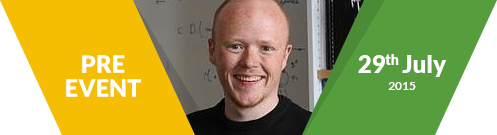
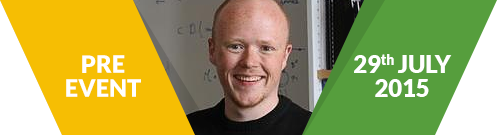
small changes to styling

Changed region(s): [[0.6942, 0.3852, 0.9054, 0.7407]]

diff --git a/css/style.css b/css/style.css
@@ -913,7 +913,7 @@ p.description {
   background: #6B6B6B;
   color: white;
   padding:0 25px;
-  margin: 10px 0 40px 0;
+  margin: 10px 0 76px 0;
 }
 /* TICKET SECTION
 -------------------------------------------------- */
@@ -1410,13 +1410,23 @@ near the relevant code. For example, if you wanted to change the styles for butt
 on small devices, paste the mobile query code up in the buttons section and style it
 there.
 */
+.pre-event-banner {
+  padding-bottom: 20px;
+}
 @media (max-width: 600px) {
   .pre-event-banner {
-    -webkit-transform: scale(0.8); /* Saf3.1+, Chrome */
-       -moz-transform: scale(0.8); /* FF3.5+ */
-        -ms-transform: scale(0.8); /* IE9 */
-         -o-transform: scale(0.8); /* Opera 10.5+ */
-            transform: scale(0.8);
+    width: 397px;
+  }
+}
+@media (max-width: 450px) {
+  .pre-event-banner {
+    width: 357px;
+  }
+}
+
+@media (max-width: 370px) {
+  .pre-event-banner {
+    width: 327px;
   }
 }
 
@@ -1464,6 +1474,9 @@ there.
   h2 {
     font-size: 35px;
     margin-bottom: 29px;
+  }
+  .rsvp {
+    margin-bottom: 29px!important;
   }
   header .logo {
     width: 130px;

diff --git a/index.html b/index.html
@@ -12,7 +12,7 @@ layout: default
     <img class="pre-event-banner" src="./images/pre-event-banner.png">
     <div class="name"><h3>“Statistics for Engineers” Workshop</h3></div>
     <p class="discription"> Join Dr. Heinrich Hartmann on this half day workshop </p>
-    <button class="rsvp">rsvp</button>
+    <a  href="https://www.eventbrite.com/e/statistics-for-engineers-with-heinrich-hartmann-tickets-17368094438"><button class="rsvp">rsvp</button></a>
   </div>
   <div class="container about">
     <h2 id="about">About Statscraft</h2>
@@ -54,7 +54,7 @@ layout: default
         <div class="ticket-alert">
           <h3>Join the waiting list</h3>
           <div class="your-ticket">
-            <span>Get Yours</span>
+            <span>HERE</span>
           </div>
         </div>
         </a>
